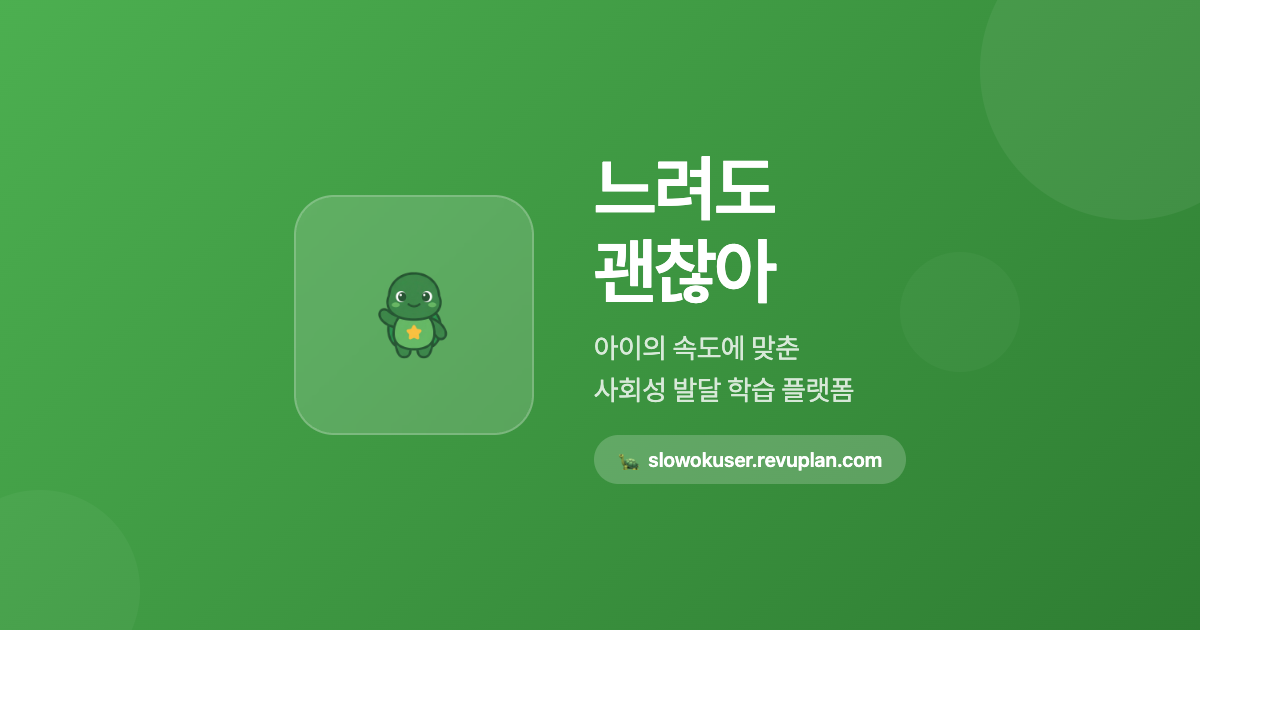
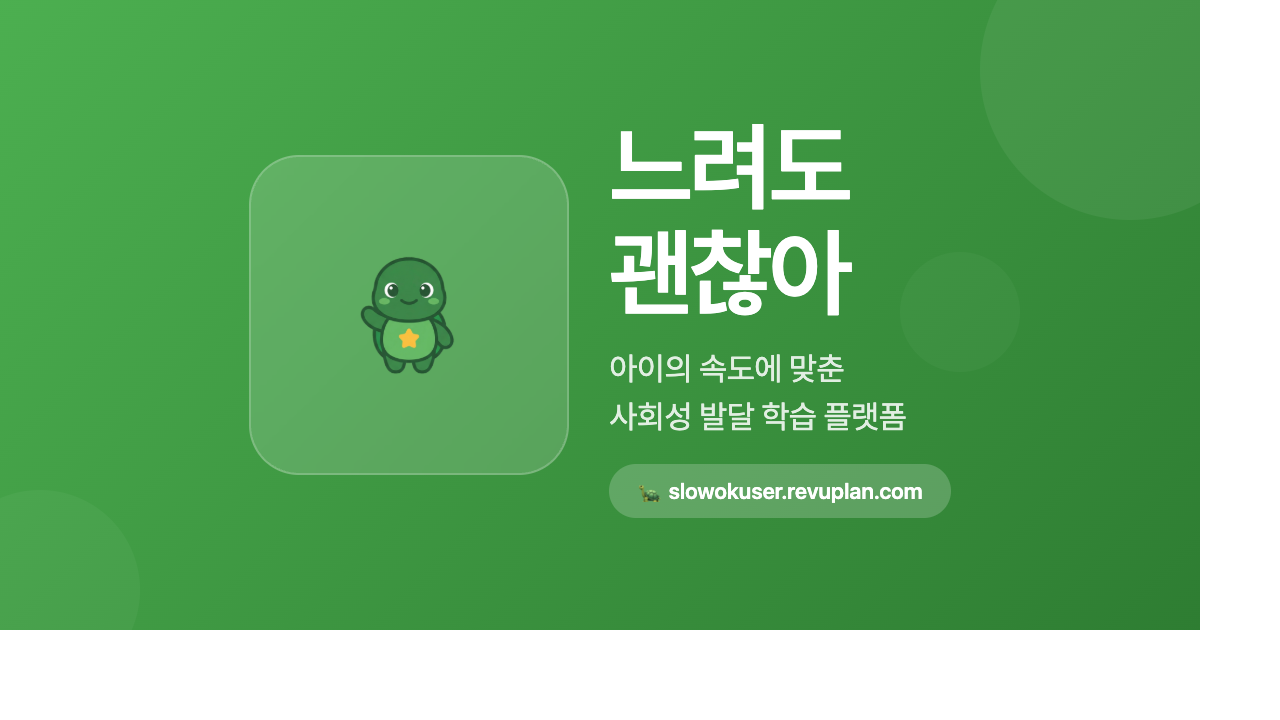
style: OG 썸네일 확대 — 거북이/텍스트 키우고 여백 줄임

Changed region(s): [[0.1875, 0.1833, 0.75, 0.7333], [0.2812, 0.3361, 0.375, 0.5194]]

diff --git a/slowok_back/public/user/user.html b/slowok_back/public/user/user.html
@@ -10,7 +10,7 @@
     <!-- Open Graph (카카오톡, 페이스북 등) -->
     <meta property="og:title" content="느려도 괜찮아" />
     <meta property="og:description" content="아이의 사회성 발달을 돕는 치료 보조 학습 서비스 🐢" />
-    <meta property="og:image" content="https://slowokuser.revuplan.com/images/og-thumbnail.png" />
+    <meta property="og:image" content="https://slowokuser.revuplan.com/images/og-thumbnail.png?v=3" />
     <meta property="og:url" content="https://slowokuser.revuplan.com" />
     <meta property="og:type" content="website" />
     <meta property="og:locale" content="ko_KR" />

diff --git a/slowok_front/user.html b/slowok_front/user.html
@@ -10,7 +10,7 @@
     <!-- Open Graph (카카오톡, 페이스북 등) -->
     <meta property="og:title" content="느려도 괜찮아" />
     <meta property="og:description" content="아이의 사회성 발달을 돕는 치료 보조 학습 서비스 🐢" />
-    <meta property="og:image" content="https://slowokuser.revuplan.com/images/og-thumbnail.png" />
+    <meta property="og:image" content="https://slowokuser.revuplan.com/images/og-thumbnail.png?v=3" />
     <meta property="og:url" content="https://slowokuser.revuplan.com" />
     <meta property="og:type" content="website" />
     <meta property="og:locale" content="ko_KR" />
